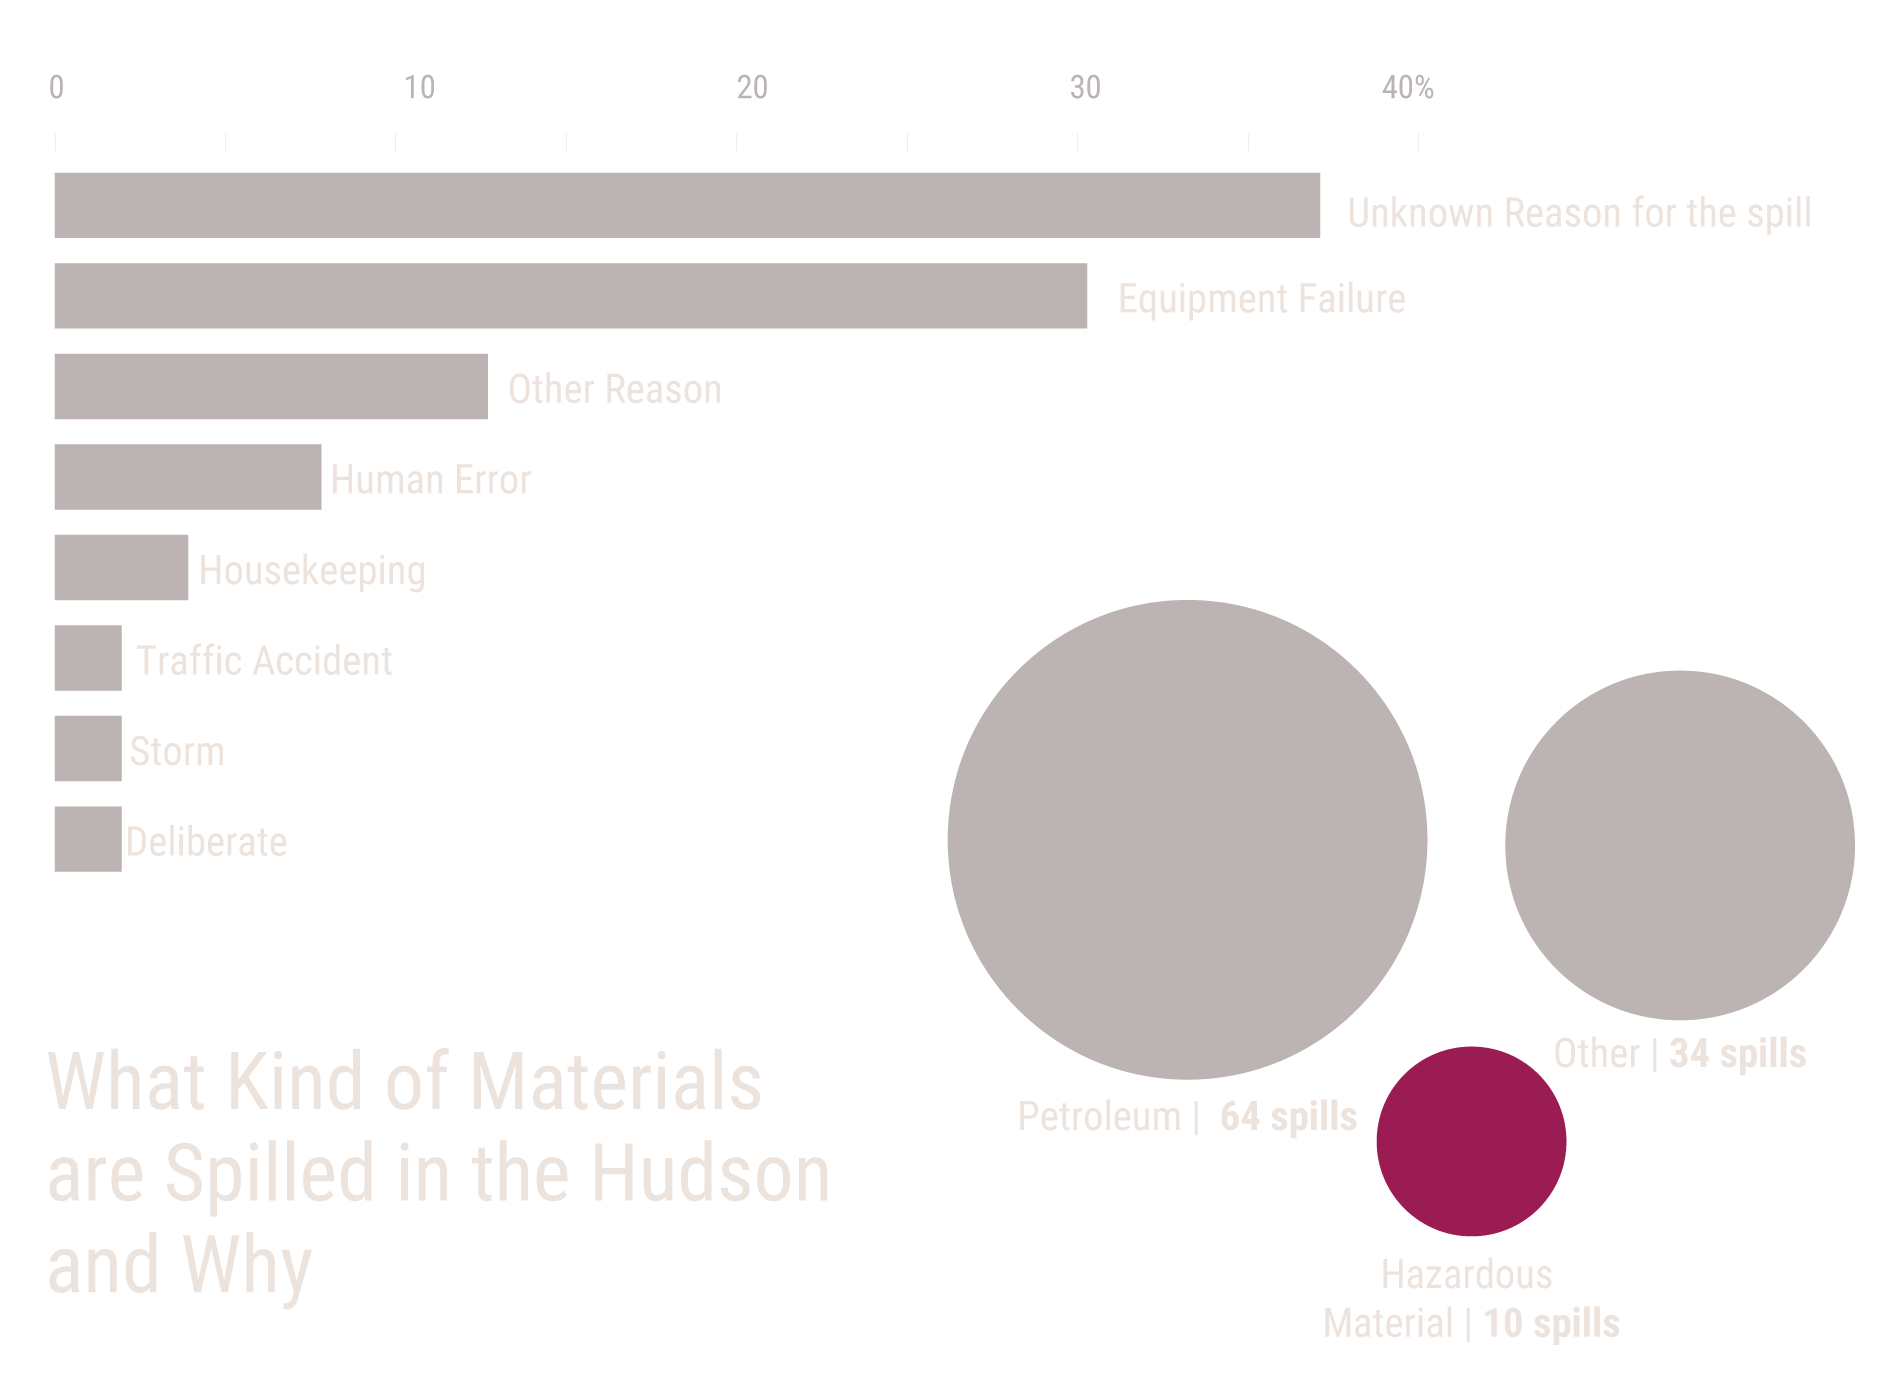
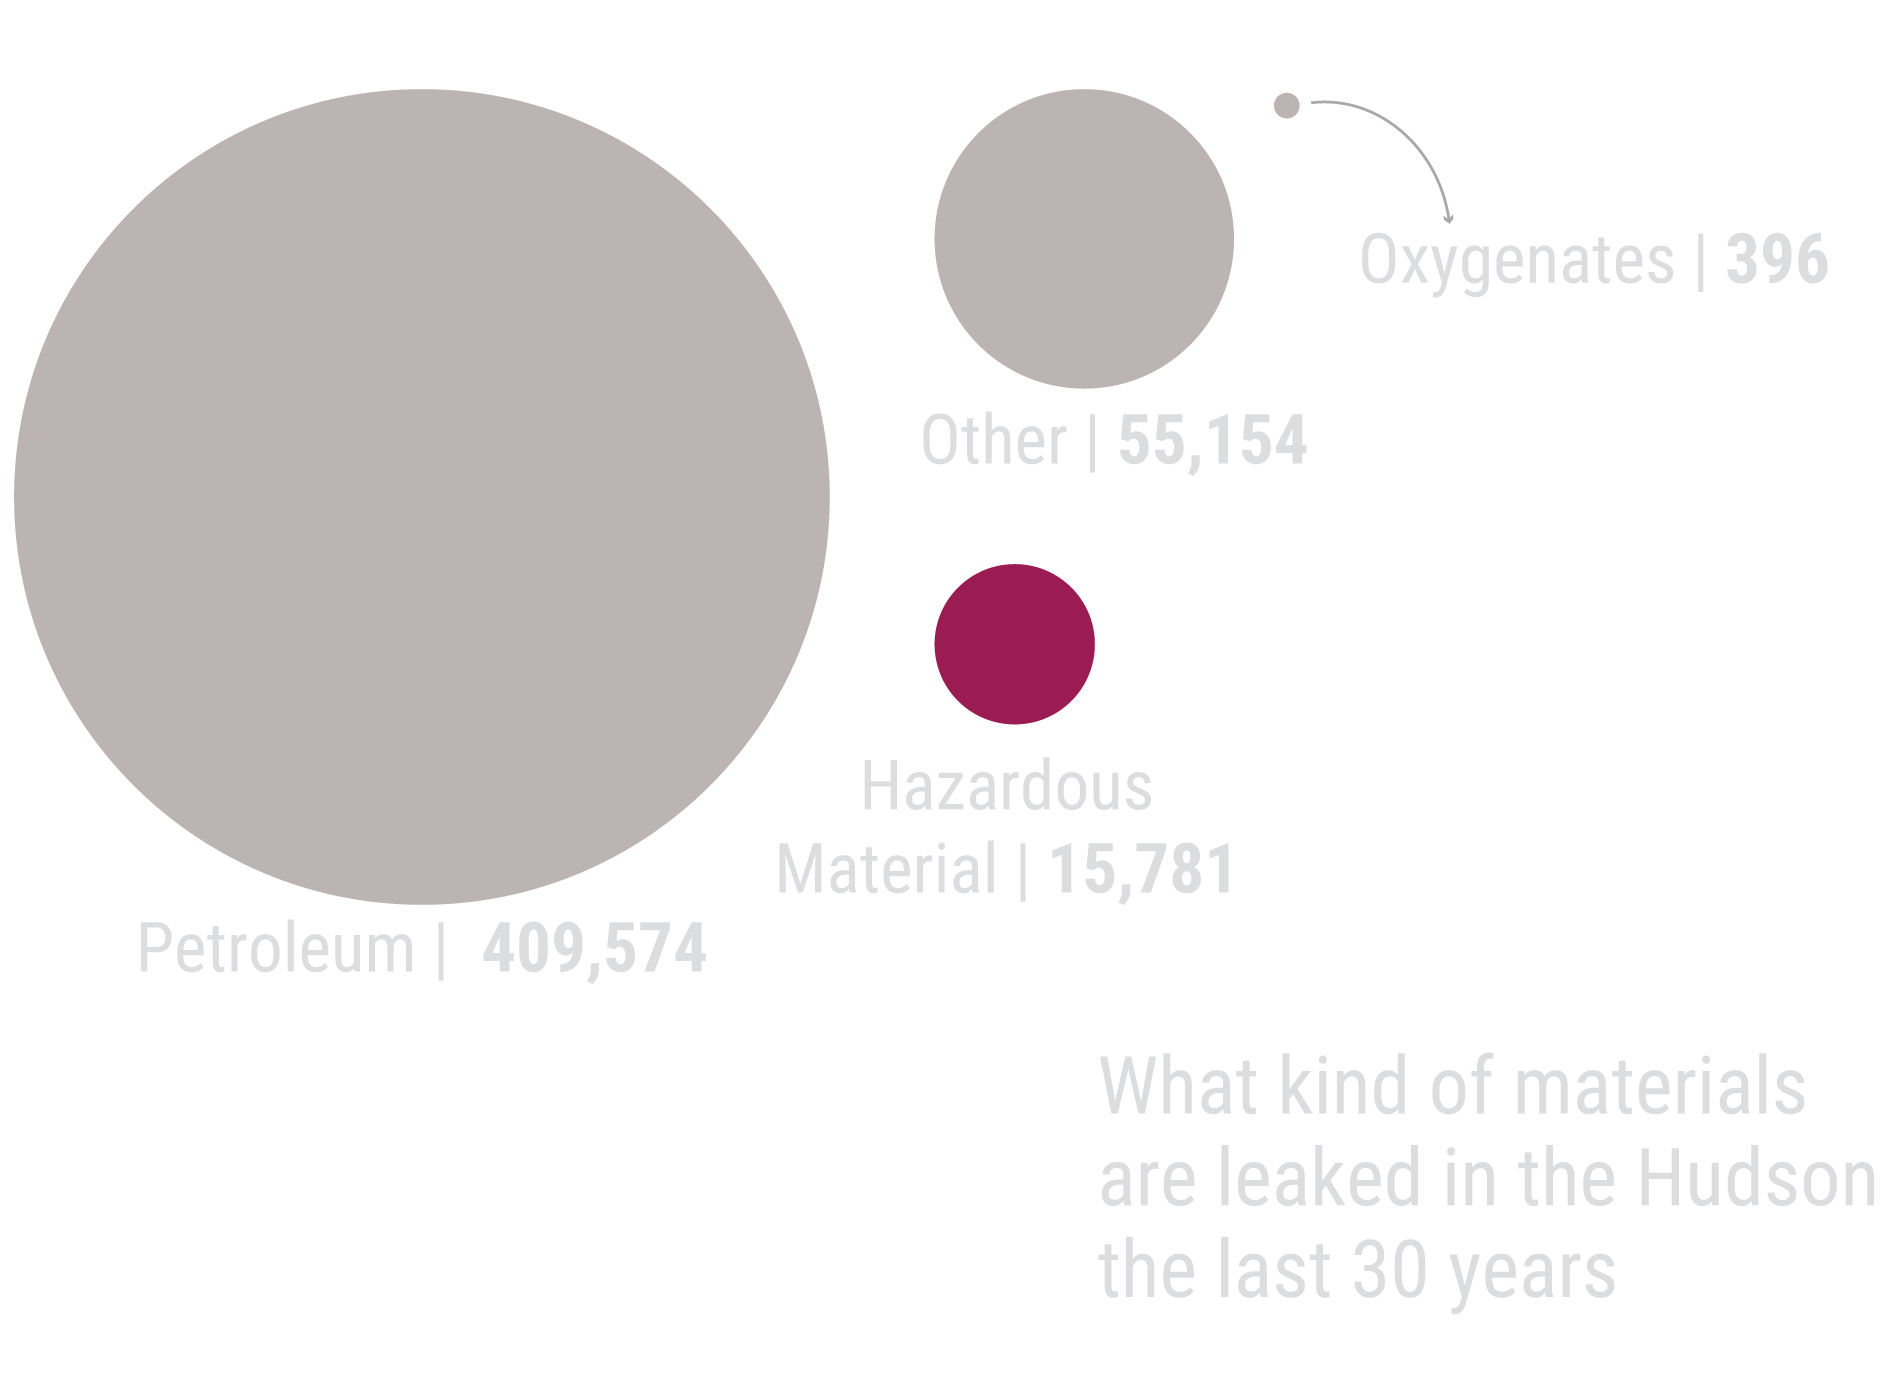
final

diff --git a/spills/index.html b/spills/index.html
@@ -28,7 +28,7 @@
                 <p class="credit super-font">BY Thanasis Trompoukis</p>
                 <p class="date sub-font">Published Month 00, 2018</p>
                 <p class="body-text sub-font">
-                Etiam porta sem malesuada magna mollis euismod. Aenean lacinia bibendum nulla sed consectetur. Nullam quis risus eget urna mollis ornare vel eu leo. Integer posuere erat a ante venenatis dapibus posuere velit aliquet. Fusce dapibus, tellus ac cursus commodo, tortor mauris condimentum nibh, ut fermentum massa justo sit amet risus. Duis mollis, est non commodo luctus, nisi erat porttitor ligula, eget lacinia odio sem nec elit. Nullam quis risus eget urna mollis ornare vel eu leo.
+                More than 16,000 spills are reported every year in the State of New York. In 2017 more than 70 reported spills had an affect at the Hudson and the East rivers. The incidents increased by 38% compared to a year before. Petroleum, gazoline and other hazardous materials are the most common toxic products which are either intentionally or by accident leaked in the Hudson or in nearby areas. 
                 </p>
             </div>
         </div>
@@ -38,8 +38,8 @@
 
         <div class="row justify-content-center"> 
             <div class="col-md-10">
-                <p class="label super-font">Spill Records from 2017 to 2018</p>
-                <p class="label-text super-font">These are recorded incidents that according to the Department of Enviroment of the State of NY affected the Hudson River.</p>
+                <p class="label super-font"> Spills in the Hudson since 2017</p>
+                <p class="label-text super-font">These are recorded incidents that according to the Department of Environmental Conservation of the State of NY affected the Hudson River. The data cover the period from January 2017 to July 2018. </p>
             </div>
             <img class="image" src="style/images/final1.png" alt="image description">
         </div>
@@ -47,8 +47,7 @@
         <div class="row justify-content-center"><!-- headline and intro -->
             <div class="col-lg-10 ">
                 <p class="body-text sub-font">
-                Etiam porta sem malesuada magna mollis euismod. Aenean lacinia bibendum nulla sed consectetur. Nullam quis risus eget urna mollis ornare vel eu leo. Integer posuere erat a ante venenatis dapibus posuere velit aliquet. Fusce dapibus, tellus ac cursus commodo,<br>
-                tortor mauris condimentum nibh, ut fermentum massa justo sit amet risus. Duis mollis, est non commodo luctus, nisi erat porttitor ligula, eget lacinia odio sem nec elit. Nullam quis risus eget urna mollis ornare vel eu leo.
+                The data which are released by the Department of Environmental Conservation, are related to spills which are reported to the agency either by those responsible for the leak, or any other individual who withned the incident or just saw the spill. There are many laws and regulations in New York State that require releases of petroleum, chemicals and materials which may cause environmental damage to be reported. In all cases, the responsible party or the property owner is required to report the discovery of a release. Many of the laws and regulations also place burden on consultants, contractors, or any one with knowledge. 
                 </p>
             </div>
         </div>
@@ -56,11 +55,10 @@
          <!-- start of one size B image -->
         <div class="row justify-content-center"> <!-- labels/deszcriptions and three charts for mobile -->
             <div class="col-md-10"><!-- left -->
-                <p class="label super-font">30 Years of Spills in Hudson and East River</p>
-                <p class="label-text super-font">These are the most common material that have been spilled in the Hudson and East rivers from 1987 to 2018. </p>
+                <p class="label super-font">Spills around Manhattan and Brooklyn</p>
+                <p class="label-text super-font"> When petroleum products and MTBE (octane-enhancing replacement) is released to the enviroment, they dissolve in the groundwater contaminating it. </p>
                 <img class="image" src="style/images/manhattan.png" alt="image description">
-                <p class="note sub-font">NOTE: an optional note or source can go here. <br>
-                SOURCE: Sourcename here
+                <p class="note sub-font">Jan 2017 - Jul 208 <br>
                 </p>
             </div>
         </div>
@@ -69,21 +67,19 @@
 
         <div class="row justify-content-center"><!-- headline and intro -->
             <div class="col-lg-10 ">
-                <p class="subhead super-font">30 Years of Toxic Spills in the Hudson</p>
+                <p class="subhead super-font">30 Years of Toxic Leaks in the Hudson</p>
                 <p class="body-text sub-font">
-                Etiam porta sem malesuada magna mollis euismod. Aenean lacinia bibendum nulla sed consectetur. Nullam quis risus eget urna mollis ornare vel eu leo. Integer posuere erat a ante venenatis dapibus posuere velit aliquet. Fusce dapibus, tellus ac cursus commodo, tortor mauris condimentum nibh, ut fermentum massa justo sit amet risus. Duis mollis, est non commodo luctus, nisi erat porttitor ligula, eget lacinia odio sem nec elit. Nullam quis risus eget urna mollis ornare vel eu leo. <br>
-                sus eget urna mollis ornare vel eu leo. Integer posuere erat a ante venenatis dapibus posuere velit aliquet. Fusce dapibus, tellus ac cursus commodo, tortor mauris condimentum nibh, ut fermentum massa justo sit amet risus. Duis mollis, est non commodo luctus, nisi erat porttitor ligula, eget lacinia odio sem nec elit. Nullam quis risus eget urna mollis ornare vel e
+                The combined spills in the Hudson and along Newtown Creek have obliterated wildlife, polluted an aquifer, hindered economic development and set off health scares among those who live and work nearby. “The impact is more subtle than in the gulf,” had said Phillip Musegaas, a lawyer with Riverkeeper,  an environmental group to the New York Times, regarding the spills in the Newton Creek, a tidal arm of the New York-New Jersey Harbor Estuary that forms the northwestern-most border between the New York City boroughs of Brooklyn and Queens. “The spill is unseen, and it’s in an area that was industrialized and already polluted. But the waterway is severely stressed, and it’s not a functioning ecosystem anymore.”
                 </p>
             </div>
         </div>
                  <!-- start of one size B image -->
         <div class="row justify-content-center"> <!-- labels/deszcriptions and three charts for mobile -->
             <div class="col-md-10"><!-- left -->
-                <p class="label super-font">30 Years of Spills in Hudson and East River</p>
-                <p class="label-text super-font">These are the most common material that have been spilled in the Hudson and East rivers from 1987 to 2018. </p>
+                <p class="label super-font">Recored Spills in Rockland and Westchester</p>
+                <p class="label-text super-font"> Each point is a reported spill. The whiter the point, the more the spills in that area.</p>
                 <img class="image" src="style/images/rockland.png" alt="image description">
-                <p class="note sub-font">NOTE: an optional note or source can go here. <br>
-                SOURCE: Sourcename here
+                <p class="note sub-font">Jan 2017 - Jul 208. <br>
                 </p>
             </div>
         </div>
@@ -92,16 +88,15 @@
         <div class="row justify-content-center"><!-- headline and intro -->
             <div class="col-lg-10 ">
                 <p class="body-text sub-font">
-                Etiam porta sem malesuada magna mollis euismod. Aenean lacinia bibendum nulla sed consectetur. Nullam quis risus eget urna mollis ornare vel eu leo. Integer posuere erat a ante venenatis dapibus posuere velit aliquet. Fusce dapibus, tellus ac cursus commodo,<br>
-                tortor mauris condimentum nibh, ut fermentum massa justo sit amet risus. Duis mollis, est non commodo luctus, nisi erat porttitor ligula, eget lacinia odio sem nec elit. Nullam quis risus eget urna mollis ornare vel eu leo.
+                The New York State Department of Environmental Conservation (NYSDEC) has listed various portions of the Hudson as having impaired water quality due to PCBs, cadmium, and other toxic compounds. Between 1947 and 1977, General Electric polluted the Hudson River by dispensing polychlorinated biphenyls (PCBs), causing a range of harmful effects to wildlife and people who eat fish from the river or drink the water. In 2010, the NYSDEC determined that the Indian Point Energy Center, a nuclear power plant in Buchanan, was violating the Clean Water Act because of its large withdrawals of water from the Hudson, which kills millions of fish and other aquatic organisms each year. The state requested that Entergy, the plant operator, replace its fish screens with cooling towers to mitigate the environmental impacts.
                 </p>
             </div>
         </div>
                  <!-- start of one size B image -->
         <div class="row justify-content-center"> <!-- labels/deszcriptions and three charts for mobile -->
             <div class="col-md-10"><!-- left -->
-                <p class="label super-font">30 Years of Spills in Hudson and East River</p>
-                <p class="label-text super-font">These are the most common material that have been spilled in the Hudson and East rivers from 1987 to 2018. </p>
+                <p class="label super-font">Spills at the Upper Hudson River Valley </p>
+                <p class="label-text super-font">. </p>
                 <img class="image" src="style/images/upper.png" alt="image description">
                 <p class="note sub-font">NOTE: an optional note or source can go here. <br>
                 SOURCE: Sourcename here
@@ -109,14 +104,19 @@
             </div>
         </div>
 <!-- end of one size B image --> 
+<div class="row justify-content-center"><!-- headline and intro -->
+            <div class="col-lg-10 ">
+                <p class="body-text sub-font">
+                Despite the effords to clead the Hudson River from PCB, an updated report issued by The Hudson River Natural Resources Trustees, claims that the Hudson River remains contaminated with levels of PCBs that don’t meet state and federal regulations and the river cleanup remains incomplete. The Trustees is a group made up of representatives from agencies U.S. Department of Commerce, U.S. Department of the Interior and the state that are responsible for natural resource damage assessment.
+                </p>
+            </div>
     
         <!-- start of one size C image -->
 
-
         <div class="row justify-content-center"> 
             <div class="col-md-10">
-                <p class="label super-font">Chart label</p>
-                <p class="label-text super-font">Labels for chart should usually go above the visualization.</p>
+                <p class="label super-font">Materials Leaked to Hudson</p>
+                <p class="label-text super-font">The eight most common materials.</p>
             </div>
             <img class="image" src="style/images/waffle_spill1.png" alt="image description">
         </div>
@@ -124,15 +124,15 @@
         <!-- start of 2 charts side by side -->
         <div class="row justify-content-center"> <!-- labels/deszcriptions and three charts for mobile -->
             <div class="col-md-6 "><!-- left -->
-                <p class="label super-font">Left chart label</p>
-                <p class="label-text super-font">Chart descriptiona liquet. Lorem ipsum dolor sit amet, consectetur adipisicing elit, sed do eiusmod tempor. </p>
+                <p class="label super-font">Categories of Substances Spilled in the Hudson</p>
+                <p class="label-text super-font">The graph shows the volume of the material from 1987 to 2018.</p>
                 <img class="image d-md-none" src="style/images/units1-01-01.png" alt="image description">
 
             </div>
 
             <div class="col-md-6 "><!-- right -->
-                <p class="label super-font">Right chart label</p>
-                <p class="label-text super-font">Chart description   velit aliquet.</p>
+                <p class="label super-font">Units Spilled Vs Units Recovered</p>
+                <p class="label-text super-font">The units is in gallons or pounds.</p>
                 <img class="image  d-md-none" src="style/images/units1-01-02.png" alt="image description">
             </div>
         
@@ -155,44 +155,22 @@
         <div class="row justify-content-center"> <!-- labels/deszcriptions and three charts for mobile -->
             <div class="col-md-10"><!-- left -->
                 <p class="label super-font">30 Years of Spills in Hudson and East River</p>
-                <p class="label-text super-font">These are the most common material that have been spilled in the Hudson and East rivers from 1987 to 2018. </p>
+                <p class="label-text super-font">The last decade there is a substancial decline in the recorded number of spills in the Hudson. However in 2017 the number of the spills increased by 38%. </p>
                 <img class="image" src="style/images/timeline.png" alt="image description">
-                <p class="note sub-font">NOTE: an optional note or source can go here. <br>
-                SOURCE: Sourcename here
+
                 </p>
             </div>
         </div>
 <!-- end of one size B image -->       
         
-
-        
-        <div class="row justify-content-center"><!-- headline and intro -->
-            <div class="col-lg-10 ">
-                <p class="body-text sub-font">
-                Etiam porta sem malesuada magna mollis euismod. Aenean lacinia bibendum nulla sed consectetur. Nullam quis risus eget urna mollis ornare vel eu leo. Integer posuere erat a ante venenatis dapibus posuere velit aliquet. Fusce dapibus, tellus ac cursus commodo,<br>
-                tortor mauris condimentum nibh, ut fermentum massa justo sit amet risus. Duis mollis, est non commodo luctus, nisi erat porttitor ligula, eget lacinia odio sem nec elit. Nullam quis risus eget urna mollis ornare vel eu leo.
-                </p>
-            </div>
-        </div>
-        
-        
-      
-            <div class="col-md-10">
-                <p class="caption sub-font">Photo captions are typically below the image and end with the photographer's credit (Firstname Lastname/AGENCYNAME) Boys swim at a river mouth between the river Drim and Ohrid lake in the city of Struga, Macedonia (Ognen Teofilovski/REUTERS)</p>
-            </div>
-        </div>
-        
         <div class="row justify-content-center"><!-- headline and intro -->
         <div class="col-lg-10 ">
             <p class="body-text sub-font">
-            Etiam porta sem malesuada magna mollis euismod. Aenean lacinia bibendum nulla sed consectetur. Nullam quis risus eget urna mollis ornare vel eu leo. Integer posuere erat a ante venenatis dapibus posuere velit aliquet. Fusce dapibus, tellus ac cursus commodo,<br>
-            tortor mauris condimentum nibh, ut fermentum massa justo sit amet risus. Duis mollis, est non commodo luctus, nisi erat porttitor ligula, eget lacinia odio sem nec elit. Nullam quis risus eget urna mollis ornare vel eu leo.
+            
             </p>
         </div>
         
-        
-        
-        
+             
         
         
       </div><!-- end of the main container-->
